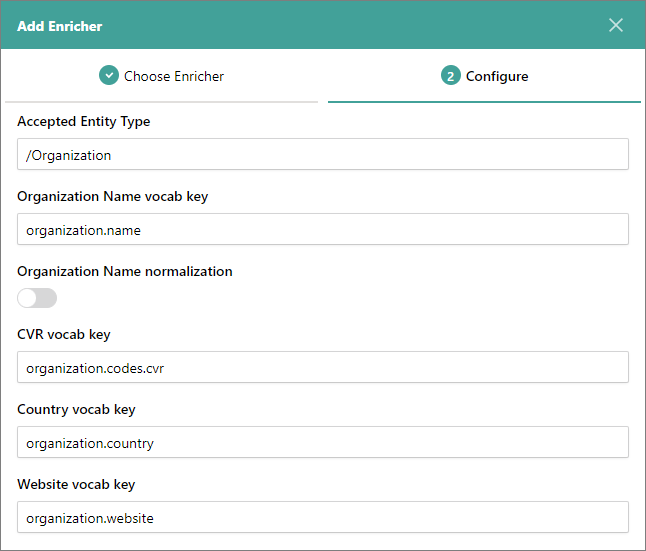
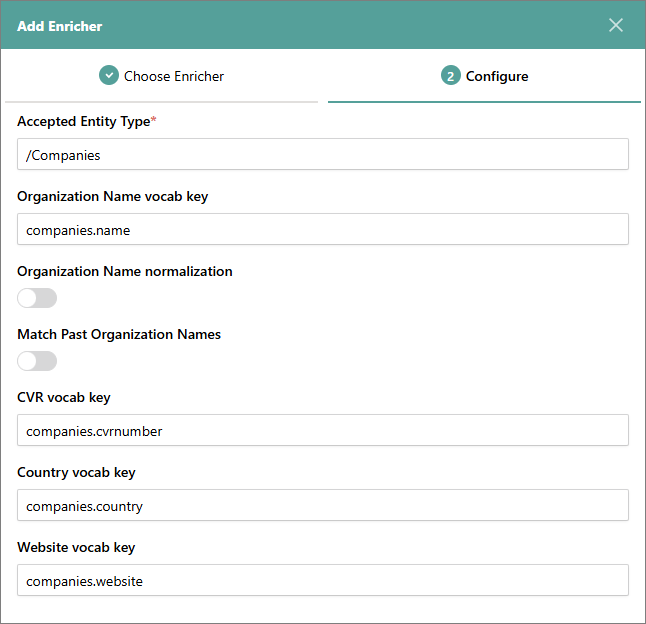
Updated CVR doc

Changed region(s): [[0.0, 0.0309, 1.0, 0.833], [0.031, 0.8639, 0.9598, 0.9564]]

diff --git a/docs/050-preparation/enricher/070-cvr.md b/docs/050-preparation/enricher/070-cvr.md
@@ -53,6 +53,8 @@ The enricher requires at least one of the following attributes for searching the
 
     - **Organization Name Normalization** – turn on the toggle if you want to normalize company names that will be used for searching the CVR register. The normalization removes trailing backslashes (&#92;), slashes (/), and vertical bars (|); also, it changes the names to lowercase. The normalization does not affect company names in CluedIn.
 
+    - **Match Past Organization Names** – turn on the toggle if you want to allow the enricher to accept data that matches the search text (organization name), even if the name of the latest data in the CVR register doesn't exactly match the search text. For example, Pfizer ApS is one of the old names of Pfizer A/S; by turning on the toggle, you can search for Pfizer ApS using the search text (Pfizer ApS).
+
     - **CVR Vocab Key** – enter the vocabulary key that contains company CVR codes that will be used for searching the CVR register.
 
     - **Country Vocab Key** – enter the vocabulary key that contains company countries that will be used for searching the CVR register.
